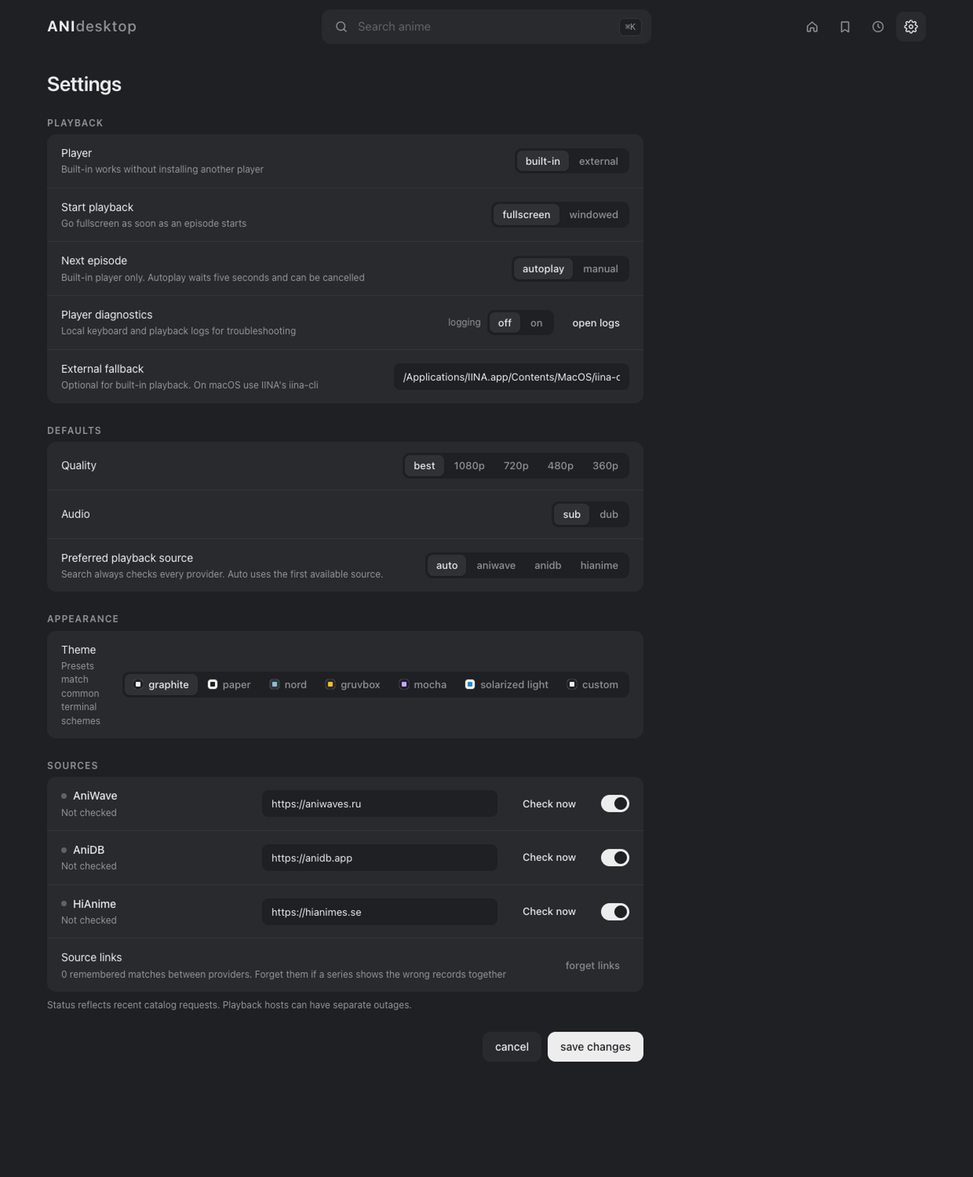
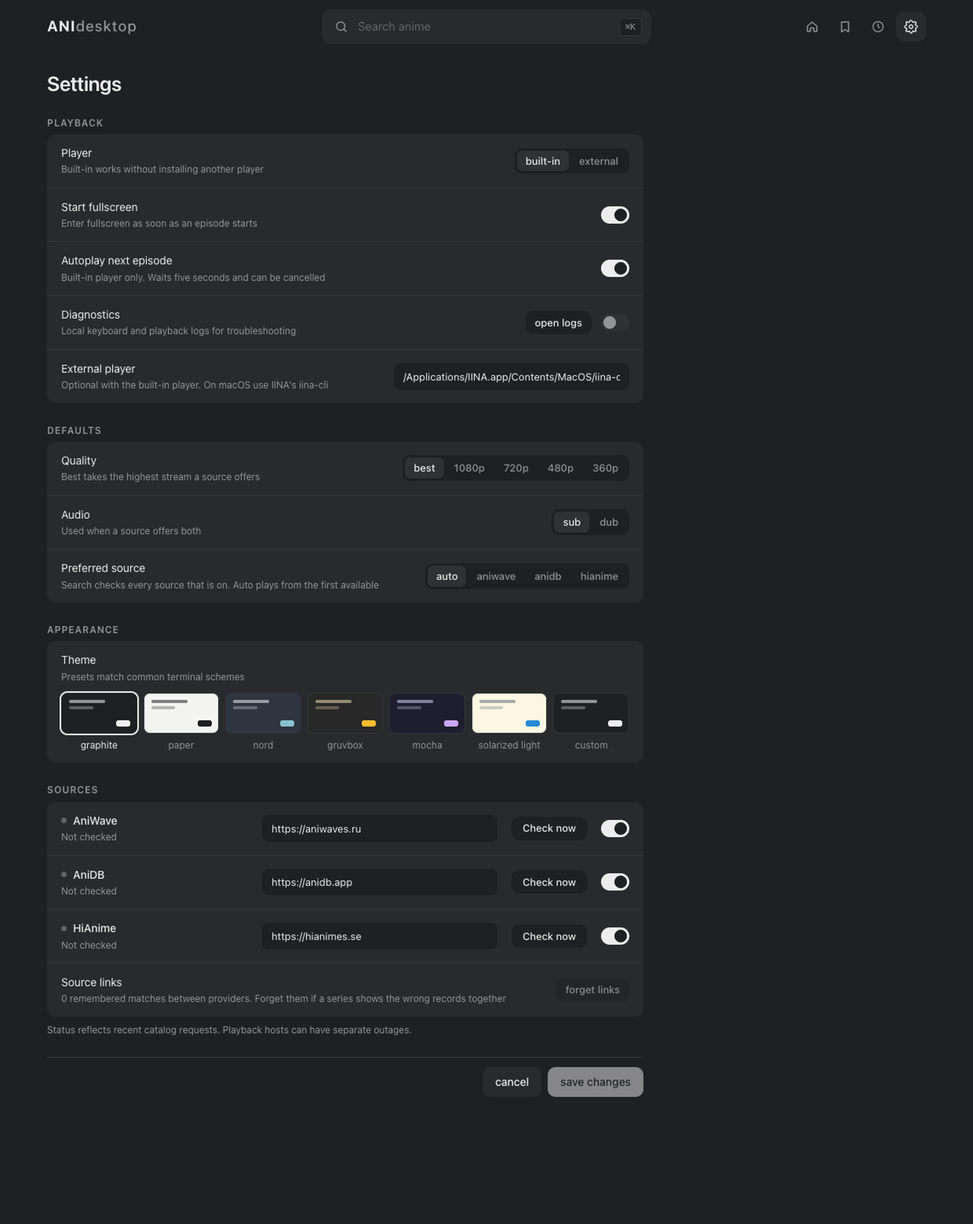
Refine settings controls and theme customization
- Use switches for boolean settings and preview tiles for themes
- Keep save disabled until settings change
- Add playback and theme design variants

diff --git a/desktop-app/design/variants/theme-settings.html b/desktop-app/design/variants/theme-settings.html
@@ -1,0 +1,155 @@
+<!doctype html>
+<html lang="en">
+<head>
+<meta charset="utf-8" />
+<title>Theme settings variants</title>
+<style>
+:root {
+  --bg: #1F2023; --text: #EDEDEE; --cursor: #EDEDEE; --cursor-text: var(--bg);
+  --raised: color-mix(in oklab, var(--bg), var(--text) 6%);
+  --raised2: color-mix(in oklab, var(--bg), var(--text) 10%);
+  --rule: color-mix(in oklab, var(--bg), var(--text) 12%);
+  --dim: color-mix(in oklab, var(--bg), var(--text) 36%);
+  --muted: color-mix(in oklab, var(--bg), var(--text) 60%);
+  color-scheme: dark;
+}
+* { box-sizing: border-box; }
+body { margin: 0; background: var(--bg); color: var(--text); font: 400 14px/1.45 Inter, -apple-system, BlinkMacSystemFont, "SF Pro Text", system-ui, sans-serif; -webkit-font-smoothing: antialiased; letter-spacing: -0.005em; }
+button, input { font: inherit; color: inherit; }
+button { background: none; border: 0; padding: 0; cursor: pointer; text-align: left; }
+input { background: none; border: 0; outline: 0; padding: 0; }
+section.screen { display: none; padding: 40px 60px; width: 1240px; }
+section.screen:target { display: block; }
+.settings { max-width: 760px; }
+.group h3 { margin: 0 0 6px; font-size: 12px; font-weight: 600; text-transform: uppercase; letter-spacing: .08em; color: var(--muted); }
+.group .box { border-radius: 12px; background: var(--raised); overflow: hidden; }
+.group .r { display: flex; align-items: center; gap: 24px; padding: 14px 18px; border-top: 1px solid var(--rule); }
+.group .r:first-child { border-top: 0; }
+.group .r .k { flex: 1; }
+.group .r .k small { display: block; color: var(--muted); font-size: 12px; margin-top: 2px; }
+.group .r.stack { flex-direction: column; align-items: stretch; gap: 12px; }
+.chips { display: inline-flex; gap: 2px; padding: 3px; border-radius: 9px; background: var(--bg); }
+.chips button { padding: 4px 11px; border-radius: 7px; color: var(--muted); font-size: 13px; font-weight: 500; white-space: nowrap; }
+.chips button.on { background: var(--raised2); color: var(--text); box-shadow: 0 1px 2px rgb(0 0 0 / 20%); }
+.chips .sw { display: inline-block; width: 12px; height: 12px; border-radius: 4px; margin-right: 7px; vertical-align: -1px; background: var(--sw-bg); box-shadow: inset 0 0 0 3px var(--sw-bg), inset 0 0 0 6px var(--sw-cur), 0 0 0 1px var(--rule); }
+.wrap { display: flex; flex-wrap: wrap; }
+
+/* ---- A: preview tiles ---- */
+.tiles { display: grid; grid-template-columns: repeat(7, 1fr); gap: 8px; }
+.tile { display: flex; flex-direction: column; gap: 6px; padding: 0; border-radius: 10px; }
+.tile .prev { height: 52px; border-radius: 8px; background: var(--t-bg); border: 1px solid var(--rule); padding: 8px 9px; display: flex; flex-direction: column; gap: 4px; position: relative; overflow: hidden; }
+.tile .prev i { display: block; height: 4px; border-radius: 2px; background: var(--t-text); opacity: .55; width: 60%; }
+.tile .prev i + i { width: 40%; opacity: .3; }
+.tile .prev b { position: absolute; right: 8px; bottom: 8px; width: 18px; height: 8px; border-radius: 3px; background: var(--t-cur); }
+.tile span { font-size: 12px; color: var(--muted); text-align: center; }
+.tile.on .prev { box-shadow: 0 0 0 2px var(--cursor); border-color: transparent; }
+.tile.on span { color: var(--text); }
+.tile.custom .prev { background: repeating-conic-gradient(var(--raised2) 0 25%, var(--bg) 0 50%) 0 0 / 12px 12px; }
+
+/* ---- C: list rows ---- */
+.themes { display: grid; grid-template-columns: repeat(2, 1fr); gap: 6px; }
+.theme { display: flex; align-items: center; gap: 12px; padding: 8px 10px; border-radius: 9px; background: var(--bg); }
+.theme .prev { width: 44px; height: 28px; border-radius: 6px; background: var(--t-bg); border: 1px solid var(--rule); position: relative; flex: none; }
+.theme .prev i { position: absolute; left: 6px; top: 8px; width: 18px; height: 3px; border-radius: 2px; background: var(--t-text); opacity: .6; }
+.theme .prev b { position: absolute; right: 6px; bottom: 6px; width: 10px; height: 5px; border-radius: 2px; background: var(--t-cur); }
+.theme span { font-size: 13px; color: var(--muted); }
+.theme.on { box-shadow: 0 0 0 1.5px var(--cursor) inset; }
+.theme.on span { color: var(--text); }
+
+/* custom colour rows */
+.colours { display: grid; gap: 6px; }
+.colour { display: grid; grid-template-columns: 90px 18px 110px; gap: 12px; align-items: center; }
+.colour span { color: var(--muted); font-size: 13px; }
+.colour i { width: 18px; height: 18px; border-radius: 4px; border: 1px solid var(--rule); background: var(--c); }
+.colour input { height: 30px; padding: 0 10px; border-radius: 8px; background: var(--bg); font-size: 13px; }
+.swatches { display: flex; gap: 14px; }
+.swatch { display: flex; align-items: center; gap: 8px; height: 34px; padding: 0 10px 0 6px; border-radius: 8px; background: var(--bg); font-size: 13px; }
+.swatch i { width: 22px; height: 22px; border-radius: 6px; background: var(--c); border: 1px solid var(--rule); }
+.swatch span { color: var(--muted); }
+.swatch code { font: 12px ui-monospace, Menlo, monospace; color: var(--text); }
+</style>
+</head>
+<body>
+
+<!-- A: preview tiles, label row on top -->
+<section class="screen" id="a-tiles">
+  <div class="settings"><div class="group"><h3>Appearance</h3><div class="box">
+    <div class="r stack">
+      <span class="k">Theme<small>Presets match common terminal schemes</small></span>
+      <div class="tiles">
+        <button class="tile on" style="--t-bg:#1F2023;--t-text:#EDEDEE;--t-cur:#EDEDEE"><span class="prev"><i></i><i></i><b></b></span><span>graphite</span></button>
+        <button class="tile" style="--t-bg:#F4F4F1;--t-text:#1E1F22;--t-cur:#1E1F22"><span class="prev"><i></i><i></i><b></b></span><span>paper</span></button>
+        <button class="tile" style="--t-bg:#2E3440;--t-text:#ECEFF4;--t-cur:#88C0D0"><span class="prev"><i></i><i></i><b></b></span><span>nord</span></button>
+        <button class="tile" style="--t-bg:#282828;--t-text:#EBDBB2;--t-cur:#FABD2F"><span class="prev"><i></i><i></i><b></b></span><span>gruvbox</span></button>
+        <button class="tile" style="--t-bg:#1E1E2E;--t-text:#CDD6F4;--t-cur:#CBA6F7"><span class="prev"><i></i><i></i><b></b></span><span>mocha</span></button>
+        <button class="tile" style="--t-bg:#FDF6E3;--t-text:#586E75;--t-cur:#268BD2"><span class="prev"><i></i><i></i><b></b></span><span>solarized light</span></button>
+        <button class="tile custom"><span class="prev"></span><span>custom</span></button>
+      </div>
+    </div>
+  </div></div></div>
+</section>
+
+<!-- A with custom selected -->
+<section class="screen" id="a-tiles-custom">
+  <div class="settings"><div class="group"><h3>Appearance</h3><div class="box">
+    <div class="r stack">
+      <span class="k">Theme<small>Presets match common terminal schemes</small></span>
+      <div class="tiles">
+        <button class="tile" style="--t-bg:#1F2023;--t-text:#EDEDEE;--t-cur:#EDEDEE"><span class="prev"><i></i><i></i><b></b></span><span>graphite</span></button>
+        <button class="tile" style="--t-bg:#F4F4F1;--t-text:#1E1F22;--t-cur:#1E1F22"><span class="prev"><i></i><i></i><b></b></span><span>paper</span></button>
+        <button class="tile" style="--t-bg:#2E3440;--t-text:#ECEFF4;--t-cur:#88C0D0"><span class="prev"><i></i><i></i><b></b></span><span>nord</span></button>
+        <button class="tile" style="--t-bg:#282828;--t-text:#EBDBB2;--t-cur:#FABD2F"><span class="prev"><i></i><i></i><b></b></span><span>gruvbox</span></button>
+        <button class="tile" style="--t-bg:#1E1E2E;--t-text:#CDD6F4;--t-cur:#CBA6F7"><span class="prev"><i></i><i></i><b></b></span><span>mocha</span></button>
+        <button class="tile" style="--t-bg:#FDF6E3;--t-text:#586E75;--t-cur:#268BD2"><span class="prev"><i></i><i></i><b></b></span><span>solarized light</span></button>
+        <button class="tile on" style="--t-bg:#14213D;--t-text:#E5E5E5;--t-cur:#FCA311"><span class="prev"><i></i><i></i><b></b></span><span>custom</span></button>
+      </div>
+    </div>
+    <div class="r">
+      <span class="k">Custom colours<small>The rest is mixed from these. Highlight marks the selected card, row, and chip</small></span>
+      <div class="swatches">
+        <span class="swatch" style="--c:#14213D"><i></i><span>background</span><code>#14213D</code></span>
+        <span class="swatch" style="--c:#E5E5E5"><i></i><span>text</span><code>#E5E5E5</code></span>
+        <span class="swatch" style="--c:#FCA311"><i></i><span>highlight</span><code>#FCA311</code></span>
+      </div>
+    </div>
+  </div></div></div>
+</section>
+
+<!-- B: existing chips, stacked under the label -->
+<section class="screen" id="b-stacked-chips">
+  <div class="settings"><div class="group"><h3>Appearance</h3><div class="box">
+    <div class="r stack">
+      <span class="k">Theme<small>Presets match common terminal schemes</small></span>
+      <span class="chips wrap">
+        <button class="on"><i class="sw" style="--sw-bg:#1F2023;--sw-cur:#EDEDEE"></i>graphite</button>
+        <button><i class="sw" style="--sw-bg:#F4F4F1;--sw-cur:#1E1F22"></i>paper</button>
+        <button><i class="sw" style="--sw-bg:#2E3440;--sw-cur:#88C0D0"></i>nord</button>
+        <button><i class="sw" style="--sw-bg:#282828;--sw-cur:#FABD2F"></i>gruvbox</button>
+        <button><i class="sw" style="--sw-bg:#1E1E2E;--sw-cur:#CBA6F7"></i>mocha</button>
+        <button><i class="sw" style="--sw-bg:#FDF6E3;--sw-cur:#268BD2"></i>solarized light</button>
+        <button><i class="sw" style="--sw-bg:#1F2023;--sw-cur:#EDEDEE"></i>custom</button>
+      </span>
+    </div>
+  </div></div></div>
+</section>
+
+<!-- C: two-column list with small previews -->
+<section class="screen" id="c-list">
+  <div class="settings"><div class="group"><h3>Appearance</h3><div class="box">
+    <div class="r stack">
+      <span class="k">Theme<small>Presets match common terminal schemes</small></span>
+      <div class="themes">
+        <button class="theme on" style="--t-bg:#1F2023;--t-text:#EDEDEE;--t-cur:#EDEDEE"><span class="prev"><i></i><b></b></span><span>graphite</span></button>
+        <button class="theme" style="--t-bg:#F4F4F1;--t-text:#1E1F22;--t-cur:#1E1F22"><span class="prev"><i></i><b></b></span><span>paper</span></button>
+        <button class="theme" style="--t-bg:#2E3440;--t-text:#ECEFF4;--t-cur:#88C0D0"><span class="prev"><i></i><b></b></span><span>nord</span></button>
+        <button class="theme" style="--t-bg:#282828;--t-text:#EBDBB2;--t-cur:#FABD2F"><span class="prev"><i></i><b></b></span><span>gruvbox</span></button>
+        <button class="theme" style="--t-bg:#1E1E2E;--t-text:#CDD6F4;--t-cur:#CBA6F7"><span class="prev"><i></i><b></b></span><span>mocha</span></button>
+        <button class="theme" style="--t-bg:#FDF6E3;--t-text:#586E75;--t-cur:#268BD2"><span class="prev"><i></i><b></b></span><span>solarized light</span></button>
+        <button class="theme" style="--t-bg:#14213D;--t-text:#E5E5E5;--t-cur:#FCA311"><span class="prev"><i></i><b></b></span><span>custom</span></button>
+      </div>
+    </div>
+  </div></div></div>
+</section>
+
+</body>
+</html>

diff --git a/desktop-app/src/App.tsx b/desktop-app/src/App.tsx
@@ -19,6 +19,7 @@ import type {
 import { catalogRequestId } from "./catalog-request";
 import { useEpisodeMetadata } from "./useEpisodeMetadata";
 import SourceStatusPanel from "./SourceStatusPanel";
+import Switch from "./Switch";
 import { useAnimeSearch } from "./useAnimeSearch";
 import { THEME_NAMES, THEME_PRESETS, resolveTheme, videoBrand } from "../shared/theme";
 import { MINI_PLAYER_WIDTH, clampMiniPlayerWidth } from "../shared/contracts";
@@ -266,6 +267,7 @@ function App() {
     void operation.then(setAppState, (reason) => setError(messageFrom(reason))).finally(() => { mergePromptActive.current = false; });
   }, [stateLoaded, appState.history, appState.bookmarks, appState.dismissedMergeKeys]);
 
+  const settingsDirty = JSON.stringify(settingsDraft) !== JSON.stringify(appState.settings);
   const themeSource = screen === "settings" ? settingsDraft : appState.settings;
   useEffect(() => applyTheme(themeSource.theme, themeSource.customTheme), [themeSource.theme, themeSource.customTheme]);
 
@@ -1062,34 +1064,35 @@ function App() {
             <h1>Settings</h1>
             <div className="group"><h3>Playback</h3><div className="box">
               <div className="r"><span className="k">Player<small>Built-in works without installing another player</small></span><Chips value={settingsDraft.playbackTarget} options={["builtin", "external"] as const} onChange={(playbackTarget) => setSettingsDraft({ ...settingsDraft, playbackTarget })} names={{ builtin: "built-in" }} /></div>
-              <div className="r"><span className="k">Start playback<small>Go fullscreen as soon as an episode starts</small></span><Chips value={settingsDraft.startPlayerFullscreen ? "fullscreen" : "windowed"} options={["fullscreen", "windowed"] as const} onChange={(value) => setSettingsDraft({ ...settingsDraft, startPlayerFullscreen: value === "fullscreen" })} /></div>
-              <div className="r"><span className="k">Next episode<small>Built-in player only. Autoplay waits five seconds and can be cancelled</small></span><Chips value={settingsDraft.autoplayNext !== false ? "autoplay" : "manual"} options={["autoplay", "manual"] as const} onChange={(value) => setSettingsDraft({ ...settingsDraft, autoplayNext: value === "autoplay" })} /></div>
-              <div className="r"><span className="k">Player diagnostics<small>Local keyboard and playback logs for troubleshooting</small></span><span className="v-row"><Chips label="logging" value={settingsDraft.playerDiagnostics ? "on" : "off"} options={["off", "on"] as const} onChange={(value) => setSettingsDraft({ ...settingsDraft, playerDiagnostics: value === "on" })} /><button type="button" className="btn small" onClick={() => { void run("opening player logs", () => window.aniDesktop.openPlayerLogs()); }}>open logs</button></span></div>
-              <div className="r"><label htmlFor="player" className="k">External fallback<small>Optional for built-in playback. On macOS use IINA's iina-cli</small></label><input id="player" value={settingsDraft.playerPath} placeholder={settingsDraft.playbackTarget === "external" ? "required" : "optional"} onChange={(event) => setSettingsDraft({ ...settingsDraft, playerPath: event.target.value })} /></div>
+              <div className="r"><span className="k">Start fullscreen<small>Enter fullscreen as soon as an episode starts</small></span><Switch checked={settingsDraft.startPlayerFullscreen} label="Start fullscreen" onChange={(startPlayerFullscreen) => setSettingsDraft({ ...settingsDraft, startPlayerFullscreen })} /></div>
+              <div className="r"><span className="k">Autoplay next episode<small>Built-in player only. Waits five seconds and can be cancelled</small></span><Switch checked={settingsDraft.autoplayNext !== false} label="Autoplay next episode" onChange={(autoplayNext) => setSettingsDraft({ ...settingsDraft, autoplayNext })} /></div>
+              <div className="r"><span className="k">Diagnostics<small>Local keyboard and playback logs for troubleshooting</small></span><span className="v-row"><button type="button" className="btn small" onClick={() => { void run("opening player logs", () => window.aniDesktop.openPlayerLogs()); }}>open logs</button><Switch checked={settingsDraft.playerDiagnostics === true} label="Diagnostics logging" onChange={(playerDiagnostics) => setSettingsDraft({ ...settingsDraft, playerDiagnostics })} /></span></div>
+              <div className="r"><label htmlFor="player" className="k">External player<small>Optional with the built-in player. On macOS use IINA's iina-cli</small></label><input id="player" value={settingsDraft.playerPath} placeholder={settingsDraft.playbackTarget === "external" ? "required" : "optional"} spellCheck={false} onChange={(event) => setSettingsDraft({ ...settingsDraft, playerPath: event.target.value })} /></div>
             </div></div>
             <div className="group"><h3>Defaults</h3><div className="box">
-              <div className="r"><span className="k">Quality</span><Chips value={settingsDraft.preferredQuality} options={QUALITIES} onChange={(preferredQuality) => setSettingsDraft({ ...settingsDraft, preferredQuality })} /></div>
-              <div className="r"><span className="k">Audio</span><Chips value={settingsDraft.preferredMode} options={["sub", "dub"] as const} onChange={(preferredMode) => setSettingsDraft({ ...settingsDraft, preferredMode })} /></div>
-              <div className="r"><span className="k">Preferred playback source<small>Search always checks every provider. Auto uses the first available source.</small></span><Chips value={settingsDraft.preferredProvider} options={["auto", ...enabledProviders(settingsDraft)] as ProviderPreference[]} onChange={(preferredProvider) => setSettingsDraft({ ...settingsDraft, preferredProvider })} /></div>
+              <div className="r"><span className="k">Quality<small>Best takes the highest stream a source offers</small></span><Chips value={settingsDraft.preferredQuality} options={QUALITIES} onChange={(preferredQuality) => setSettingsDraft({ ...settingsDraft, preferredQuality })} /></div>
+              <div className="r"><span className="k">Audio<small>Used when a source offers both</small></span><Chips value={settingsDraft.preferredMode} options={["sub", "dub"] as const} onChange={(preferredMode) => setSettingsDraft({ ...settingsDraft, preferredMode })} /></div>
+              <div className="r"><span className="k">Preferred source<small>Search checks every source that is on. Auto plays from the first available</small></span><Chips value={settingsDraft.preferredProvider} options={["auto", ...enabledProviders(settingsDraft)] as ProviderPreference[]} onChange={(preferredProvider) => setSettingsDraft({ ...settingsDraft, preferredProvider })} /></div>
             </div></div>
             <div className="group"><h3>Appearance</h3><div className="box">
-              <div className="r"><span className="k">Theme<small>Presets match common terminal schemes</small></span><span className="chips" role="radiogroup" aria-label="theme">
+              <div className="r stack"><span className="k">Theme<small>Presets match common terminal schemes</small></span><span className="tiles" role="radiogroup" aria-label="theme">
                 {THEME_NAMES.map((name) => {
                   const colours = resolveTheme(name, settingsDraft.customTheme);
                   return (
-                    <button type="button" key={name} role="radio" aria-checked={settingsDraft.theme === name} className={settingsDraft.theme === name ? "on" : ""}
+                    <button type="button" key={name} role="radio" aria-checked={settingsDraft.theme === name} className={`tile${settingsDraft.theme === name ? " on" : ""}`}
+                      style={{ "--t-bg": colours.background, "--t-text": colours.text, "--t-cur": colours.highlight } as React.CSSProperties}
                       onClick={() => setSettingsDraft({ ...settingsDraft, theme: name, customTheme: name === "custom" && settingsDraft.theme !== "custom" ? { ...resolveTheme(settingsDraft.theme, settingsDraft.customTheme) } : settingsDraft.customTheme })}>
-                      <i className="sw" style={{ "--sw-bg": colours.background, "--sw-cur": colours.highlight } as React.CSSProperties} />{name.replace("-", " ")}
+                      <span className="prev" aria-hidden="true"><i /><i /><b /></span><span>{name.replace("-", " ")}</span>
                     </button>
                   );
                 })}
               </span></div>
               {settingsDraft.theme === "custom" && (
-                <div className="r"><span className="k">Custom colours<small>The rest is mixed from these. Highlight marks the selected card, row, and chip</small></span><span className="colours">
+                <div className="r"><span className="k">Custom colours<small>Every other tone is mixed from these three</small></span><span className="swatches">
                   {(["background", "text", "highlight"] as const).map((key) => (
-                    <span className="colour" key={key}>
-                      <span>{key}</span>
+                    <span className="swatch" key={key}>
                       <input type="color" value={settingsDraft.customTheme[key]} aria-label={`${key} colour`} onChange={(event) => setSettingsDraft({ ...settingsDraft, customTheme: { ...settingsDraft.customTheme, [key]: event.target.value } })} />
+                      <span>{key}</span>
                       <input value={settingsDraft.customTheme[key]} aria-label={`${key} hex`} maxLength={7} spellCheck={false} onChange={(event) => setSettingsDraft({ ...settingsDraft, customTheme: { ...settingsDraft.customTheme, [key]: event.target.value } })} />
                     </span>
                   ))}
@@ -1099,7 +1102,7 @@ function App() {
             <SourceStatusPanel saved={appState.settings} draft={settingsDraft} onChange={setSettingsDraft}>
               <div className="r"><span className="k">Source links<small>{(appState.providerLinks ?? []).length} remembered {(appState.providerLinks ?? []).length === 1 ? "match" : "matches"} between providers. Forget them if a series shows the wrong records together</small></span><button type="button" className="btn small" disabled={!(appState.providerLinks ?? []).length} onClick={() => void clearSourceLinks()}>forget links</button></div>
             </SourceStatusPanel>
-            <div className="acts-row"><button type="button" className="btn" onClick={goBack}>cancel</button><button type="submit" className="btn primary">save changes</button></div>
+            <div className="acts-row"><button type="button" className="btn" onClick={goBack}>cancel</button><button type="submit" className="btn primary" disabled={!settingsDirty}>save changes</button></div>
           </form>
         )}
       </div>}

diff --git a/desktop-app/design/variants/playback-settings.html b/desktop-app/design/variants/playback-settings.html
@@ -1,0 +1,68 @@
+<!doctype html>
+<html lang="en">
+<head>
+<meta charset="utf-8" />
+<title>Playback settings variants</title>
+<style>
+:root {
+  --bg: #1F2023; --text: #EDEDEE; --cursor: #EDEDEE; --cursor-text: var(--bg);
+  --raised: color-mix(in oklab, var(--bg), var(--text) 6%);
+  --raised2: color-mix(in oklab, var(--bg), var(--text) 10%);
+  --rule: color-mix(in oklab, var(--bg), var(--text) 12%);
+  --dim: color-mix(in oklab, var(--bg), var(--text) 36%);
+  --muted: color-mix(in oklab, var(--bg), var(--text) 60%);
+  color-scheme: dark;
+}
+* { box-sizing: border-box; }
+body { margin: 0; background: var(--bg); color: var(--text); font: 400 14px/1.45 Inter, -apple-system, BlinkMacSystemFont, "SF Pro Text", system-ui, sans-serif; -webkit-font-smoothing: antialiased; letter-spacing: -0.005em; }
+button, input { font: inherit; color: inherit; }
+button { background: none; border: 0; padding: 0; cursor: pointer; text-align: left; }
+input { background: none; border: 0; outline: 0; padding: 0; }
+section.screen { display: none; padding: 40px 60px; width: 1240px; }
+section.screen:target { display: block; }
+.settings { max-width: 760px; }
+.group h3 { margin: 0 0 6px; font-size: 12px; font-weight: 600; text-transform: uppercase; letter-spacing: .08em; color: var(--muted); }
+.group .box { border-radius: 12px; background: var(--raised); overflow: hidden; }
+.group .r { display: flex; align-items: center; gap: 24px; padding: 14px 18px; border-top: 1px solid var(--rule); }
+.group .r:first-child { border-top: 0; }
+.group .r .k { flex: 1; }
+.group .r .k small { display: block; color: var(--muted); font-size: 12px; margin-top: 2px; }
+.group .r > input { width: 300px; height: 34px; padding: 0 12px; border-radius: 8px; background: var(--bg); font-size: 13px; }
+.chips { display: inline-flex; gap: 2px; padding: 3px; border-radius: 9px; background: var(--bg); }
+.chips button { padding: 4px 11px; border-radius: 7px; color: var(--muted); font-size: 13px; font-weight: 500; white-space: nowrap; }
+.chips button.on { background: var(--raised2); color: var(--text); box-shadow: 0 1px 2px rgb(0 0 0 / 20%); }
+.btn { display: inline-flex; align-items: center; height: 30px; padding: 0 12px; border-radius: 8px; font-size: 13px; font-weight: 500; background: var(--bg); color: var(--text); }
+.v-row { display: flex; align-items: center; gap: 12px; }
+.switch { position: relative; width: 36px; height: 22px; border-radius: 11px; background: var(--raised2); flex: none; }
+.switch i { position: absolute; top: 3px; left: 3px; width: 16px; height: 16px; border-radius: 50%; background: var(--muted); }
+.switch.on { background: var(--cursor); }
+.switch.on i { left: 17px; background: var(--cursor-text); }
+.dim { color: var(--dim); }
+</style>
+</head>
+<body>
+
+<!-- A: switches for booleans, chips only for real choices -->
+<section class="screen" id="a-switches">
+  <div class="settings"><div class="group"><h3>Playback</h3><div class="box">
+    <div class="r"><span class="k">Player<small>Built-in works without installing another player</small></span><span class="chips"><button class="on">built-in</button><button>external</button></span></div>
+    <div class="r"><span class="k">Start fullscreen<small>Enter fullscreen as soon as an episode starts</small></span><button class="switch"><i></i></button></div>
+    <div class="r"><span class="k">Autoplay next episode<small>Built-in player only. Waits five seconds and can be cancelled</small></span><button class="switch on"><i></i></button></div>
+    <div class="r"><span class="k">Diagnostics<small>Local keyboard and playback logs for troubleshooting</small></span><span class="v-row"><button class="btn">open logs</button><button class="switch on"><i></i></button></span></div>
+    <div class="r"><span class="k">External player<small>Optional with the built-in player. On macOS use IINA's iina-cli</small></span><input value="/Applications/IINA.app/Contents/MacOS/iina-cli" /></div>
+  </div></div></div>
+</section>
+
+<!-- B: keep chips, align and give the button chrome -->
+<section class="screen" id="b-chips">
+  <div class="settings"><div class="group"><h3>Playback</h3><div class="box">
+    <div class="r"><span class="k">Player<small>Built-in works without installing another player</small></span><span class="chips"><button class="on">built-in</button><button>external</button></span></div>
+    <div class="r"><span class="k">Start playback<small>Go fullscreen as soon as an episode starts</small></span><span class="chips"><button>fullscreen</button><button class="on">windowed</button></span></div>
+    <div class="r"><span class="k">Next episode<small>Built-in player only. Autoplay waits five seconds and can be cancelled</small></span><span class="chips"><button class="on">autoplay</button><button>manual</button></span></div>
+    <div class="r"><span class="k">Diagnostics<small>Local keyboard and playback logs for troubleshooting</small></span><span class="v-row"><button class="btn">open logs</button><span class="chips"><button>off</button><button class="on">on</button></span></span></div>
+    <div class="r"><span class="k">External player<small>Optional with the built-in player. On macOS use IINA's iina-cli</small></span><input value="/Applications/IINA.app/Contents/MacOS/iina-cli" /></div>
+  </div></div></div>
+</section>
+
+</body>
+</html>

diff --git a/desktop-app/src/styles.css b/desktop-app/src/styles.css
@@ -173,7 +173,6 @@ kbd { font: 11px/1 ui-monospace, SFMono-Regular, Menlo, monospace; color: var(--
 .chips button { padding: 4px 11px; border-radius: 7px; color: var(--muted); font-size: 13px; font-weight: 500; white-space: nowrap; }
 .chips button:hover { color: var(--text); }
 .chips button.on { background: var(--bg); color: var(--text); box-shadow: 0 1px 2px rgb(0 0 0 / 20%); }
-.chips .sw { display: inline-block; width: 12px; height: 12px; border-radius: 4px; margin-right: 7px; vertical-align: -1px; background: var(--sw-bg); box-shadow: inset 0 0 0 3px var(--sw-bg), inset 0 0 0 6px var(--sw-cur), 0 0 0 1px var(--rule); }
 .btn { display: inline-flex; align-items: center; gap: 8px; height: 38px; padding: 0 16px; border-radius: 10px; font-size: 14px; font-weight: 500; background: var(--raised); color: var(--text); }
 .btn:hover:not(:disabled) { background: var(--raised2); }
 .btn.primary { background: var(--cursor); color: var(--cursor-text); }
@@ -260,19 +259,34 @@ kbd { font: 11px/1 ui-monospace, SFMono-Regular, Menlo, monospace; color: var(--
 .group .r:first-child { border-top: 0; }
 .group .r .k { flex: 1; }
 .group .r .k small { display: block; color: var(--muted); font-size: 12px; margin-top: 2px; }
-.group .r > input { min-width: 300px; height: 34px; padding: 0 12px; border-radius: 8px; background: var(--bg); font-size: 13px; }
+.group .r > input { width: 300px; height: 34px; padding: 0 12px; border-radius: 8px; background: var(--bg); font-size: 13px; }
 .group .r > input:focus-visible { outline-offset: 0; }
 .group .r .chips { background: var(--bg); }
 .group .r .chips button.on { background: var(--raised2); }
 .group .r .v-row { display: flex; align-items: center; gap: 12px; }
-.colours { display: grid; gap: 6px; }
-.colour { display: grid; grid-template-columns: 90px 18px 110px; gap: 12px; align-items: center; }
-.colour span { color: var(--muted); font-size: 13px; }
-.colour input[type="color"] { width: 18px; height: 18px; padding: 0; border: 1px solid var(--rule); border-radius: 4px; background: none; cursor: pointer; -webkit-appearance: none; appearance: none; }
-.colour input[type="color"]::-webkit-color-swatch-wrapper { padding: 0; }
-.colour input[type="color"]::-webkit-color-swatch { border: 0; border-radius: 3px; }
-.colour input:not([type="color"]) { height: 30px; padding: 0 10px; border-radius: 8px; background: var(--bg); font-size: 13px; }
+.group .r .btn { background: var(--bg); }
+.group .r .btn:hover:not(:disabled) { background: var(--raised2); }
+.group .r.stack { flex-direction: column; align-items: stretch; gap: 12px; }
+.tiles { display: grid; grid-template-columns: repeat(7, 1fr); gap: 8px; }
+.tile { display: flex; flex-direction: column; gap: 6px; border-radius: 10px; }
+.tile .prev { display: flex; flex-direction: column; gap: 4px; position: relative; height: 52px; padding: 8px 9px; border-radius: 8px; border: 1px solid var(--rule); background: var(--t-bg); overflow: hidden; }
+.tile .prev i { display: block; width: 60%; height: 4px; border-radius: 2px; background: var(--t-text); opacity: .55; }
+.tile .prev i + i { width: 40%; opacity: .3; }
+.tile .prev b { position: absolute; right: 8px; bottom: 8px; width: 18px; height: 8px; border-radius: 3px; background: var(--t-cur); }
+.tile > span:last-child { font-size: 12px; color: var(--muted); text-align: center; }
+.tile:hover > span:last-child { color: var(--text); }
+.tile.on .prev { border-color: transparent; box-shadow: 0 0 0 2px var(--cursor); }
+.tile.on > span:last-child { color: var(--text); }
+.swatches { display: flex; gap: 12px; }
+.swatch { display: flex; align-items: center; gap: 8px; height: 34px; padding: 0 6px; border-radius: 8px; background: var(--bg); }
+.swatch > span { color: var(--muted); font-size: 13px; }
+.swatch input[type="color"] { width: 22px; height: 22px; padding: 0; border: 1px solid var(--rule); border-radius: 6px; background: none; cursor: pointer; -webkit-appearance: none; appearance: none; }
+.swatch input[type="color"]::-webkit-color-swatch-wrapper { padding: 0; }
+.swatch input[type="color"]::-webkit-color-swatch { border: 0; border-radius: 5px; }
+.swatch input:not([type="color"]) { width: 72px; font: 12px ui-monospace, SFMono-Regular, Menlo, monospace; color: var(--text); }
 .acts-row { display: flex; gap: 8px; justify-content: flex-end; margin-top: 8px; }
+/* The form is taller than the window, so the actions stay in view while it scrolls. */
+.settings .acts-row { position: sticky; bottom: 0; margin: 0; padding: 12px 0; background: var(--bg); border-top: 1px solid var(--rule); }
 
 /* ---- key hints -------------------------------------------------------- */
 .hints { position: absolute; left: 50%; bottom: 20px; transform: translateX(-50%); z-index: 40; display: flex; gap: 18px; padding: 8px 14px; border-radius: 10px; background: var(--raised); color: var(--muted); font-size: 12px; box-shadow: 0 0 0 1px var(--rule), 0 6px 20px rgb(0 0 0 / 25%); white-space: nowrap; }

diff --git a/desktop-app/src/SourceStatusPanel.tsx b/desktop-app/src/SourceStatusPanel.tsx
@@ -1,6 +1,7 @@
 import { useEffect, useRef, useState, type ReactNode } from "react";
 import type { ProviderName, ProviderSourceStatus, Settings } from "../shared/contracts";
 import { catalogRequestId } from "./catalog-request";
+import Switch from "./Switch";
 
 const SOURCES = [
   { provider: "aniwave", name: "AniWave", address: "aniwaveBaseUrl" },
@@ -91,7 +92,7 @@ export default function SourceStatusPanel({ saved, draft, onChange, children }: 
           onChange={(event) => onChange({ ...draft, [address]: event.target.value })} />
         <button type="button" className="btn small" aria-label={`Check ${name} now`} disabled={!on || busy || changed || status?.canRetry === false}
           onClick={() => { void check(provider); }}>{busy ? "Checking…" : status?.state === "paused" ? "Retry" : "Check now"}</button>
-        <button type="button" className="switch" role="switch" aria-checked={on} aria-label={`Use ${name}`} onClick={toggle}><i /></button>
+        <Switch checked={on} label={`Use ${name}`} onChange={toggle} />
       </div>;
     })}{children}</div>
     <p className="group-note">Status reflects recent catalog requests. Playback hosts can have separate outages.</p>

diff --git a/desktop-app/tests/search.test.tsx b/desktop-app/tests/search.test.tsx
@@ -205,9 +205,9 @@ describe("built-in player screen", () => {
 describe("live catalog search", () => {
   it("saves opt-in diagnostics and opens the log folder from settings", async () => {
     await click("settings");
-    const group = container.querySelector('[role="radiogroup"][aria-label="logging"]')!;
-    expect(group.querySelector('[aria-checked="true"]')?.textContent).toBe("off");
-    await act(async () => { [...group.querySelectorAll("button")].find(button => button.textContent === "on")!.click(); });
+    const toggle = container.querySelector<HTMLButtonElement>('[role="switch"][aria-label="Diagnostics logging"]')!;
+    expect(toggle.getAttribute("aria-checked")).toBe("false");
+    await act(async () => { toggle.click(); });
     await click("open logs");
     expect(api.openPlayerLogs).toHaveBeenCalledOnce();
     expect(api.saveSettings).not.toHaveBeenCalled();

diff --git a/desktop-app/src/Switch.tsx b/desktop-app/src/Switch.tsx
@@ -1,0 +1,4 @@
+/** An on/off control for a single boolean setting; choices between named options stay as chips. */
+export default function Switch({ checked, label, onChange, disabled }: { checked: boolean; label: string; onChange: (checked: boolean) => void; disabled?: boolean }) {
+  return <button type="button" className="switch" role="switch" aria-checked={checked} aria-label={label} disabled={disabled} onClick={() => onChange(!checked)}><i /></button>;
+}

diff --git a/desktop-app/design/variants/NOTES.md b/desktop-app/design/variants/NOTES.md
@@ -33,7 +33,13 @@ The renderer now follows atsu.moe. `atsu.html` holds the mockups; `shots/atsu-*.
 - Saved and recent: full card grids filtered by the pill. Settings: grouped cards. The Sources group is one row per
   provider: a status dot with the name and a one-line state on the left, the address in a fixed middle column, and a
   single Check now / Retry button and an on/off switch on the right (`sources-settings.html`, variant B, chosen
-  September 13 2026). A source that is off dims and is left out of search, lookup, and episode loading. The key-hint footer is gone; `?`
+  September 13 2026). A source that is off dims and is left out of search, lookup, and episode loading.
+  The theme picker is a row of preview tiles, one per preset plus custom, each drawn in its own background, text,
+  and highlight colours; custom adds a row of colour swatches with editable hex values (`theme-settings.html`,
+  variant A, chosen September 13 2026).
+  Yes/no settings (start fullscreen, autoplay, diagnostics) are switches; chips are reserved for choices between
+  named options (player, quality, audio, preferred source). The cancel/save row sticks to the bottom of the scrolling
+  form and save is disabled until something changes (`playback-settings.html`, variant A). The key-hint footer is gone; `?`
   shows a hint pill.
 - Type is the system sans-serif (Inter when installed); Fragment Mono is no longer bundled. Themes are unchanged.
 
